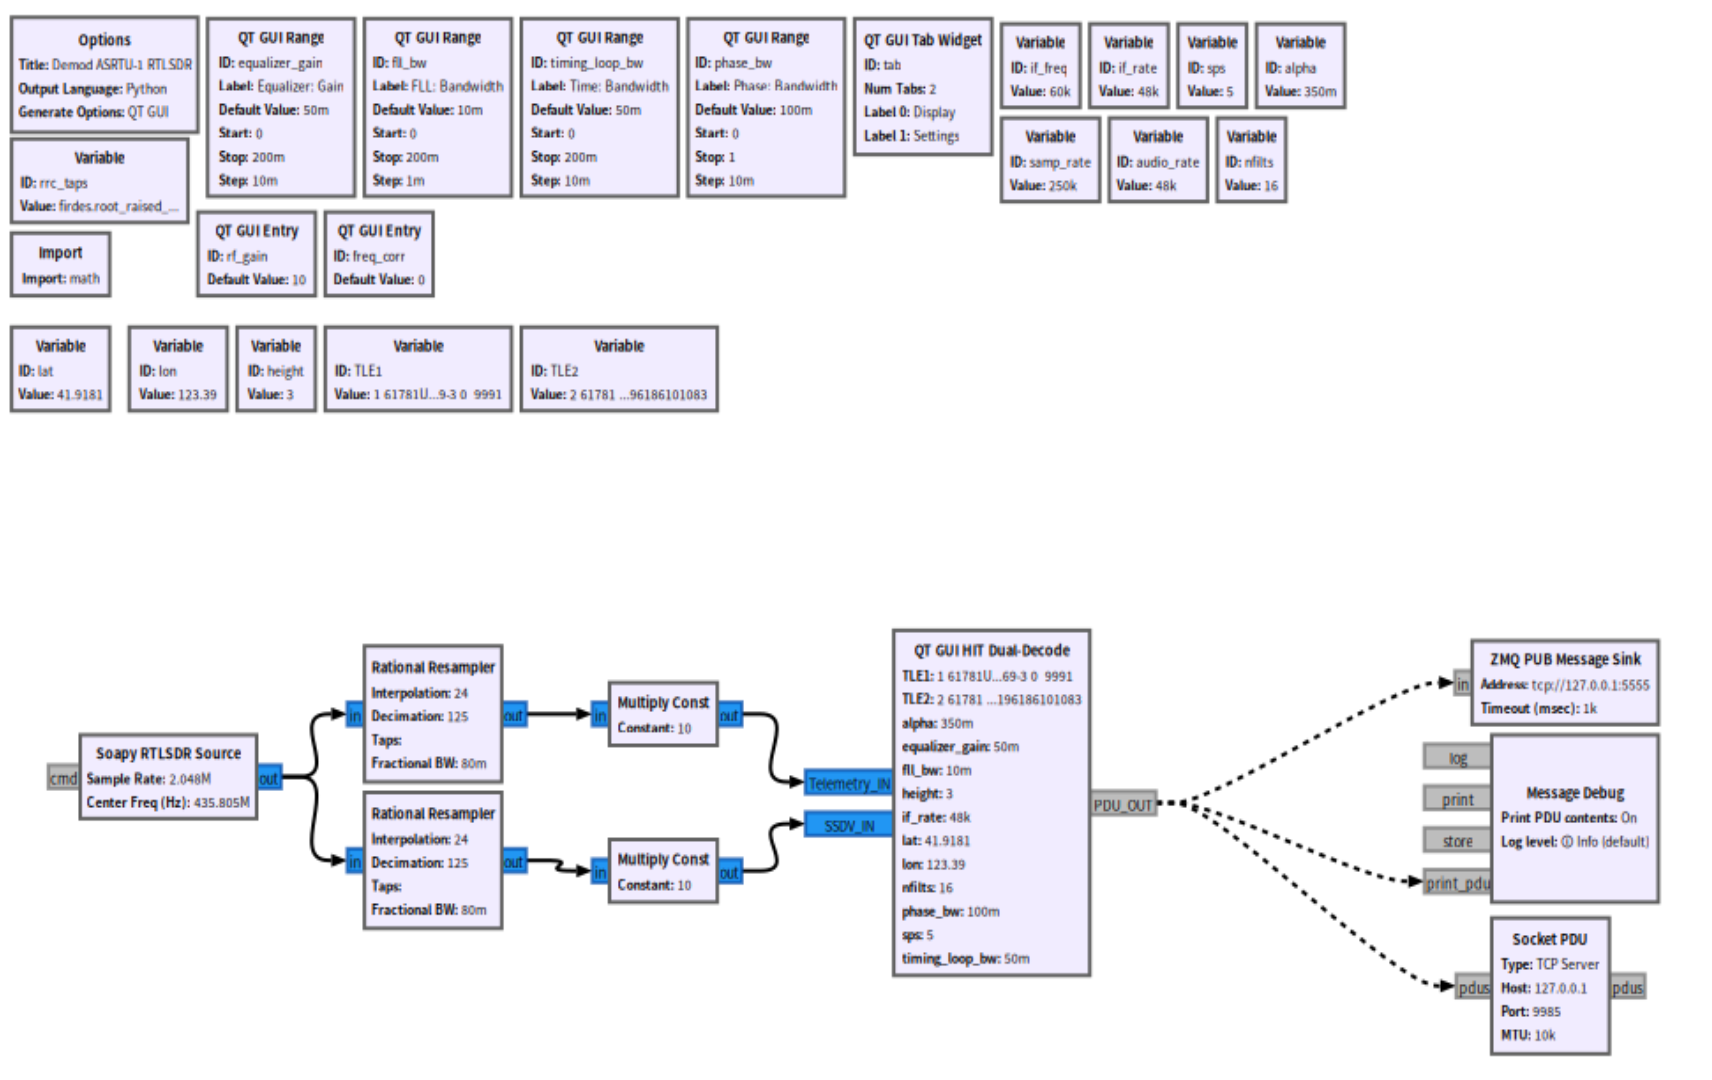
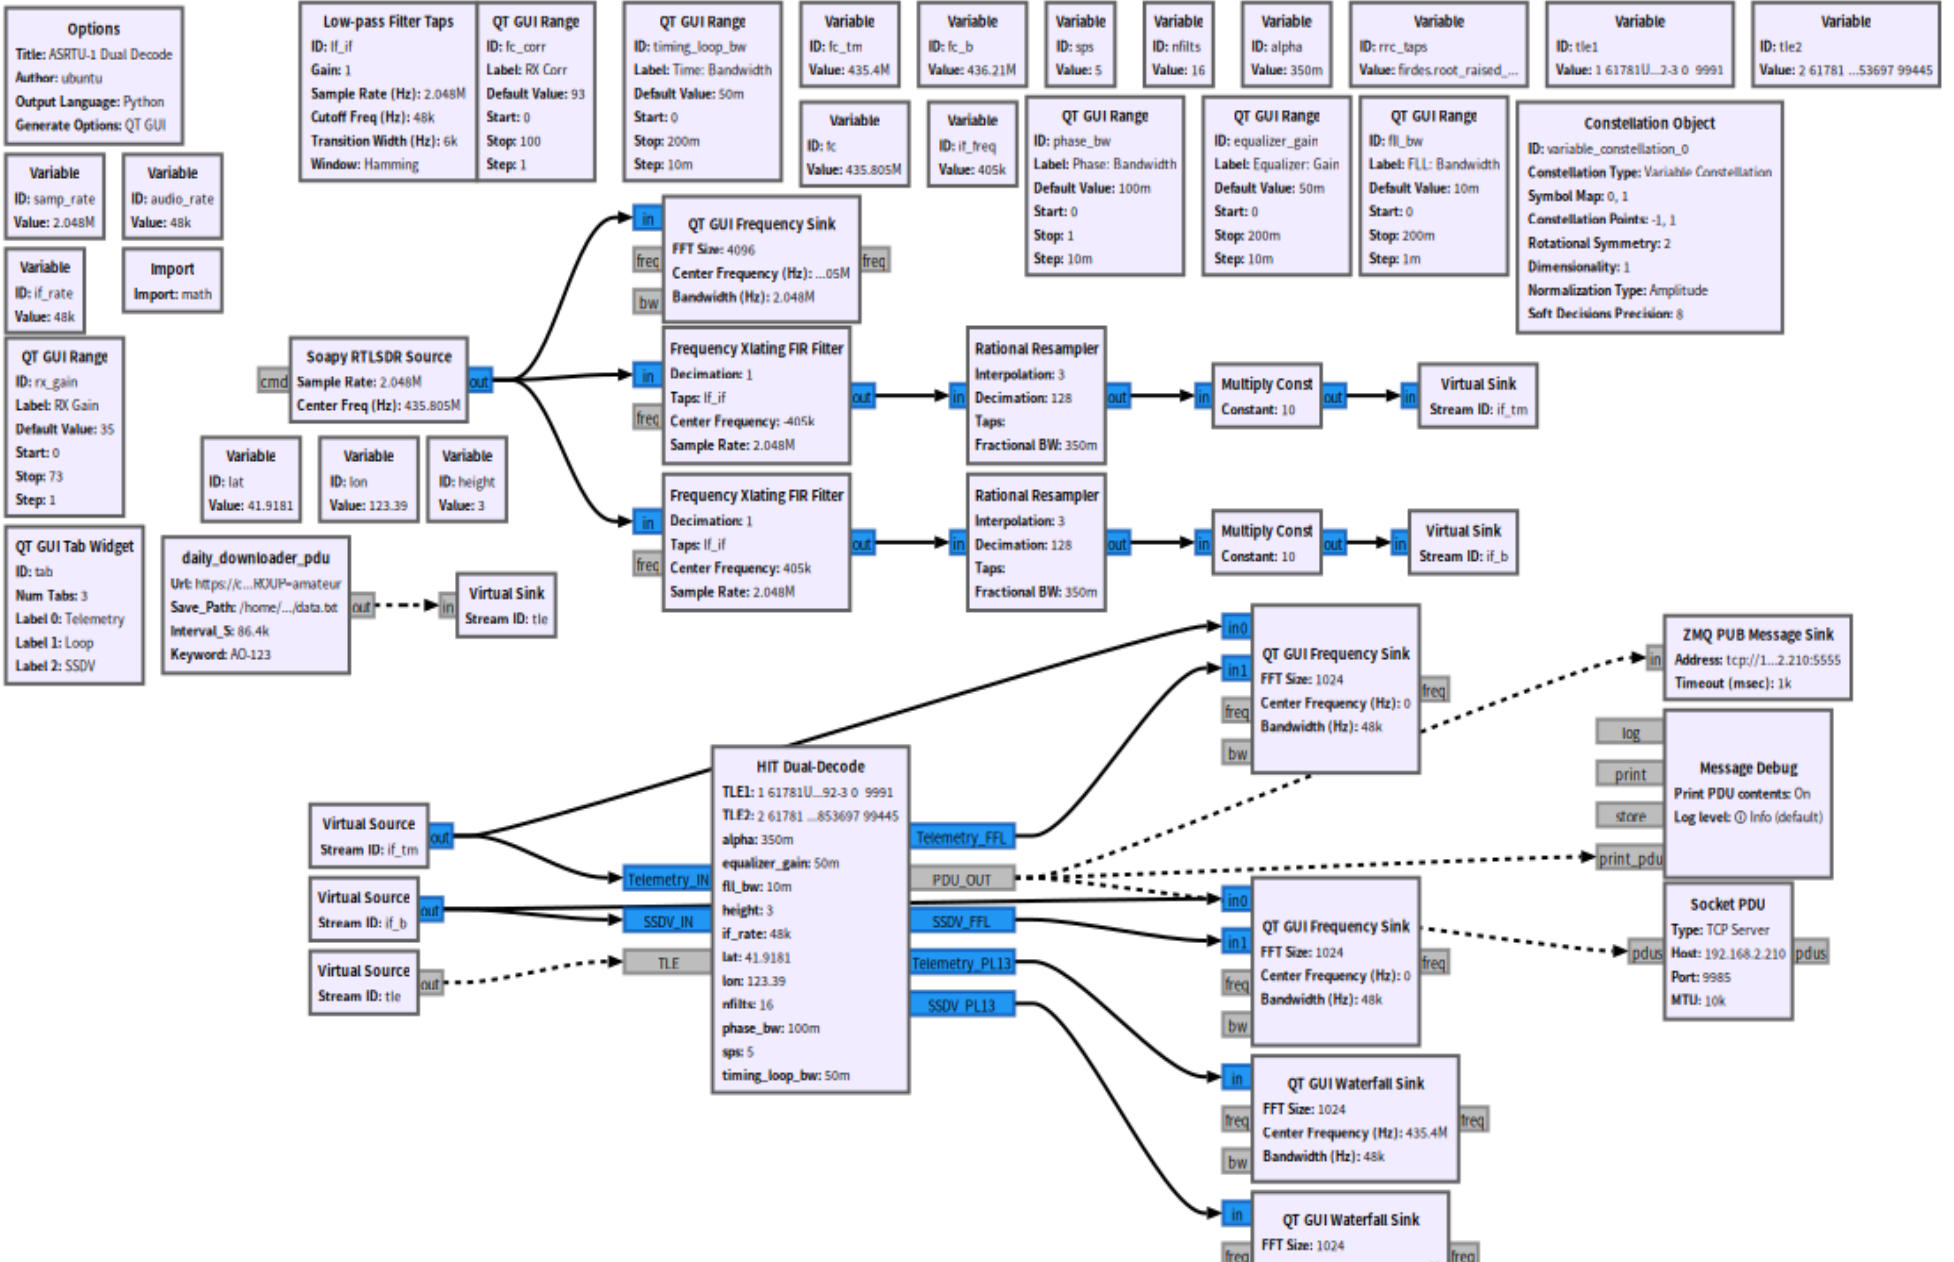
update

Changed region(s): [[0.0, 0.0, 1.0, 1.0], [0.4953, 0.5194, 0.5572, 0.55]]

diff --git a/pages/posts/GNURadio-Study-02/index.md b/pages/posts/GNURadio-Study-02/index.md
@@ -25,11 +25,13 @@ tags:
 
 ![](./GNU-S2-02.jpg)
 
-图中通过RTL Source接出两条重采样线路分别输入块中，在变量中修改实际的经纬度以及高度信息，将星历替换为最新的星历数据，运行后可以看到两个频点同时显示的星座图以及频率图以及相关参数的设置条
+图中通过RTL Source接出两条重采样线路分别输入块中，在变量中修改实际的经纬度以及高度信息，使用FWT提供流图中的自动更新星历传入，运行后可以看到频谱图、频谱瀑布图以及参数设置栏
 
 ![](./GNU-S2-02.25.jpg)
 
-![](./GNU-S2-02.5.jpg)
+![](./GNU-S2-02.35.jpg)
+
+![](./GNU-S2-02.45.jpg)
 
 流图中的Dual-Decode块使用了自定义Hier块，将复杂的解码过程简化为一个块的输入输出，使得流图更加简洁
 
